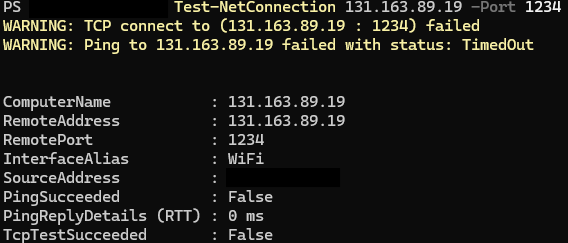
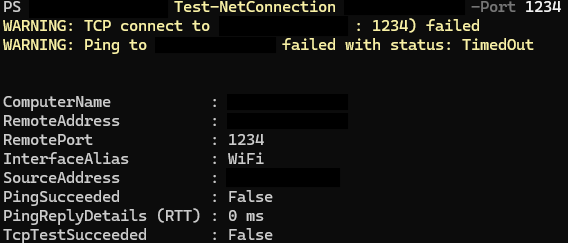
Redact the server's public address from the screenshots
The address was released when the resource group was deleted and now points
at someone else's machine. It identified nothing of mine, but there is no
reason to publish a third party's current address.

Changed region(s): [[0.3891, 0.3745, 0.6285, 0.5185], [0.2694, 0.0576, 0.6285, 0.2305], [0.5986, 0.0, 0.838, 0.0576]]

diff --git a/README.draft.md b/README.draft.md
@@ -1,0 +1,124 @@
+# Secure Web Application on Azure
+
+A web app on a hardened Linux VM, with a database that cannot be reached from the internet.
+
+Originally a university project, rebuilt and documented here.
+
+---
+
+## What was built
+
+![Architecture](images/01-architecture-diagram.svg)
+
+- One resource group, `project-rg`, in Norway East.
+- Virtual network, `10.0.0.0/16`, split into two subnets.
+- `subnet-web` - VM and web app.
+- `subnet-db` - private endpoint for the database.
+- Ubuntu 24.04, Standard B2ats v2, 2 vCPU, 1 GiB.
+- Azure SQL Database, Blob Storage, private DNS zone.
+
+Web tier takes traffic from strangers, data tier never does.
+
+![Resources](images/02-resource-group.png)
+
+---
+
+## Network
+
+- Network security group allows 22, 80, 443 and 5000.
+- All other traffic hits the default deny rule.
+
+![NSG rules](images/05-nsg-inbound-rules.png)
+
+Tested from outside Azure:
+
+- `Test-NetConnection` to port 1234 failed.
+- Ping timed out.
+
+![Blocked from outside](images/06-blocked-from-outside.png)
+
+---
+
+## Host
+
+- UFW active, default deny on incoming.
+- SSH keys only. No password login, & no root.
+- `AllowGroups` blocks root, the account exists but cannot log in.
+- fail2ban: **49** failed attempts, **5** addresses banned.
+- unattended-upgrades running.
+
+A second firewall behind the first. The NSG is a portal setting and one wrong click opens a port.
+
+![UFW](images/07-ufw-status.png)
+![SSH key only](images/08-ssh-key-only.png)
+![fail2ban](images/09-fail2ban-banned.png)
+
+---
+
+## Data
+
+- Public access to the database **disabled**.
+- **0** firewall rules; nothing to allow.
+- Only route in is a private endpoint in `subnet-db`.
+- A private DNS zone points the public hostname at the private address.
+- Encryption at rest on.
+
+![Public access disabled](images/11-sql-public-access-disabled.png)
+![Private endpoint](images/12-sql-private-endpoint.png)
+
+Blob Storage is encrypted at rest, but has no private endpoint.
+
+---
+
+## What it found
+
+Scanners found the server, none of this is simulated.
+
+- Login attempts for `admin`, `library`, `root`, `auto`, `cf1c22`.
+- UFW dropped port 80 and 443 scans from **10** separate addresses.
+- App served create, read and delete requests.
+
+Nobody got in, the accounts tried either do not exist or are not permitted to log in.
+
+![Attack traffic](images/14-attack-traffic-blocked.png)
+![Invalid user](images/15-journalctl-invalid-user.png)
+
+---
+
+## Operations
+
+- `backup_web.sh` archives the app directory, filename dated.
+- cron runs it nightly at 02:00.
+- Logs rotate weekly, four weeks kept.
+
+![Backup script](images/16-backup-script.png)
+![Log retention](images/18-log-retention.png)
+
+---
+
+## Changes I wish to make
+
+- Port 5000 left open. Rule is named `allow-5000-TEMP` and shipped anyway. Open at the NSG and at UFW.
+- SSH is open, Azure flags it in the portal. A jump host is the fix, fail2ban only limits damage.
+- Blob Storage has no private endpoint while the database does.
+- Role-based access never set up. Entra ID was not available on the subscription.
+- Access matrix gave developers Contributor plus database owner. Enough to delete the database and the VM.
+- Encryption at rest was an Azure default, not something I configured.
+
+---
+
+## Scaling it
+
+One VM does not scale. There is no load balancer, and files are on a local disk, so a second VM would not see them.
+
+The shape of the design will not change, only the  compute underneath.
+
+- **Small** - this, as it is.
+- **Growing** - App Service or a scale set, files to Blob Storage, web application firewall in front.
+- **Large** - more than one region, scaling on traffic, access split by team, private endpoints on everything.
+
+---
+
+## License
+
+MIT. See `LICENSE`.
